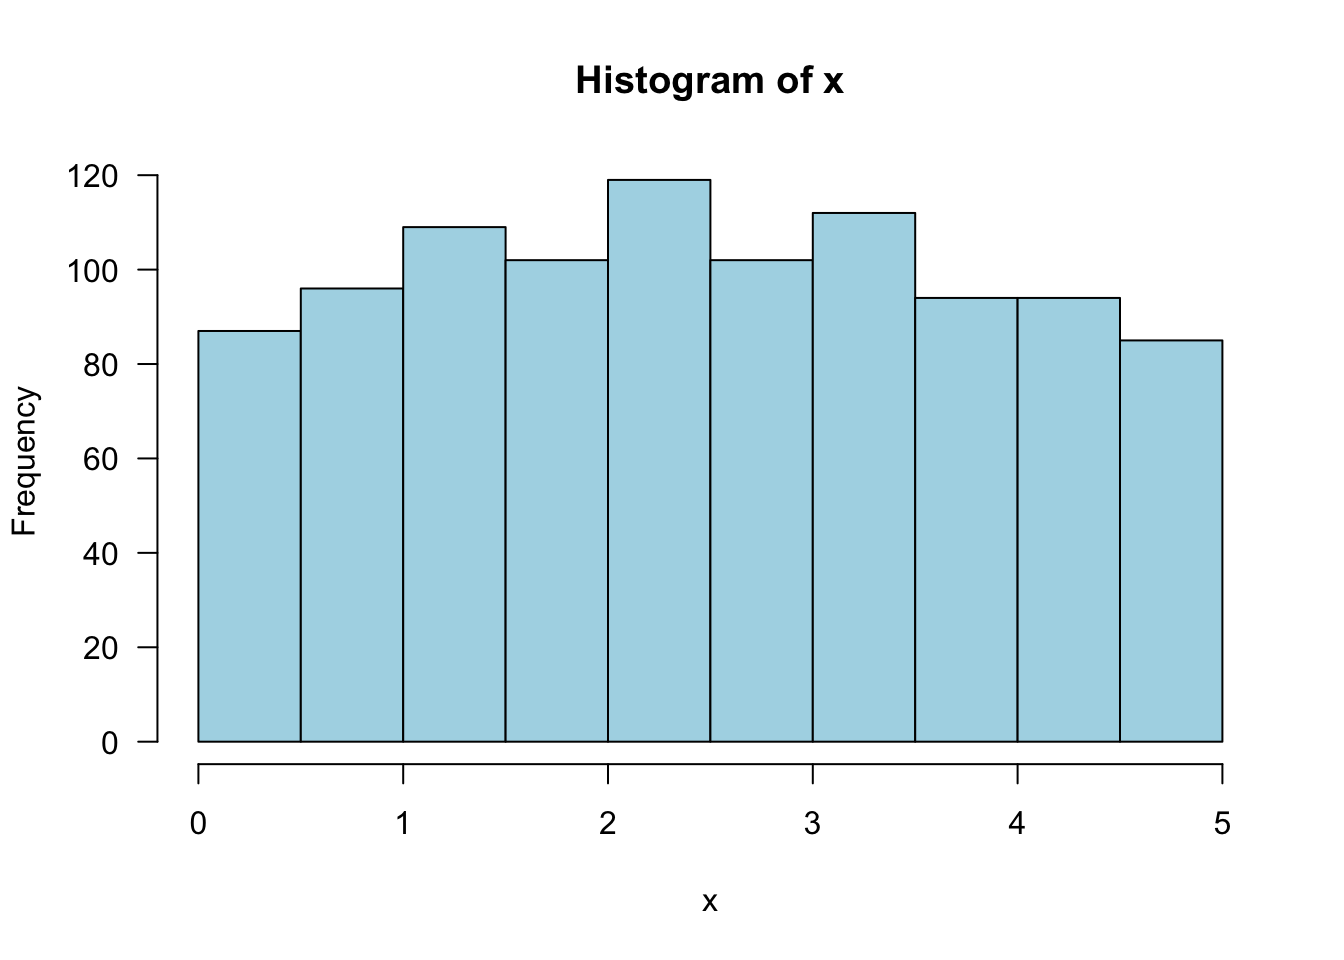
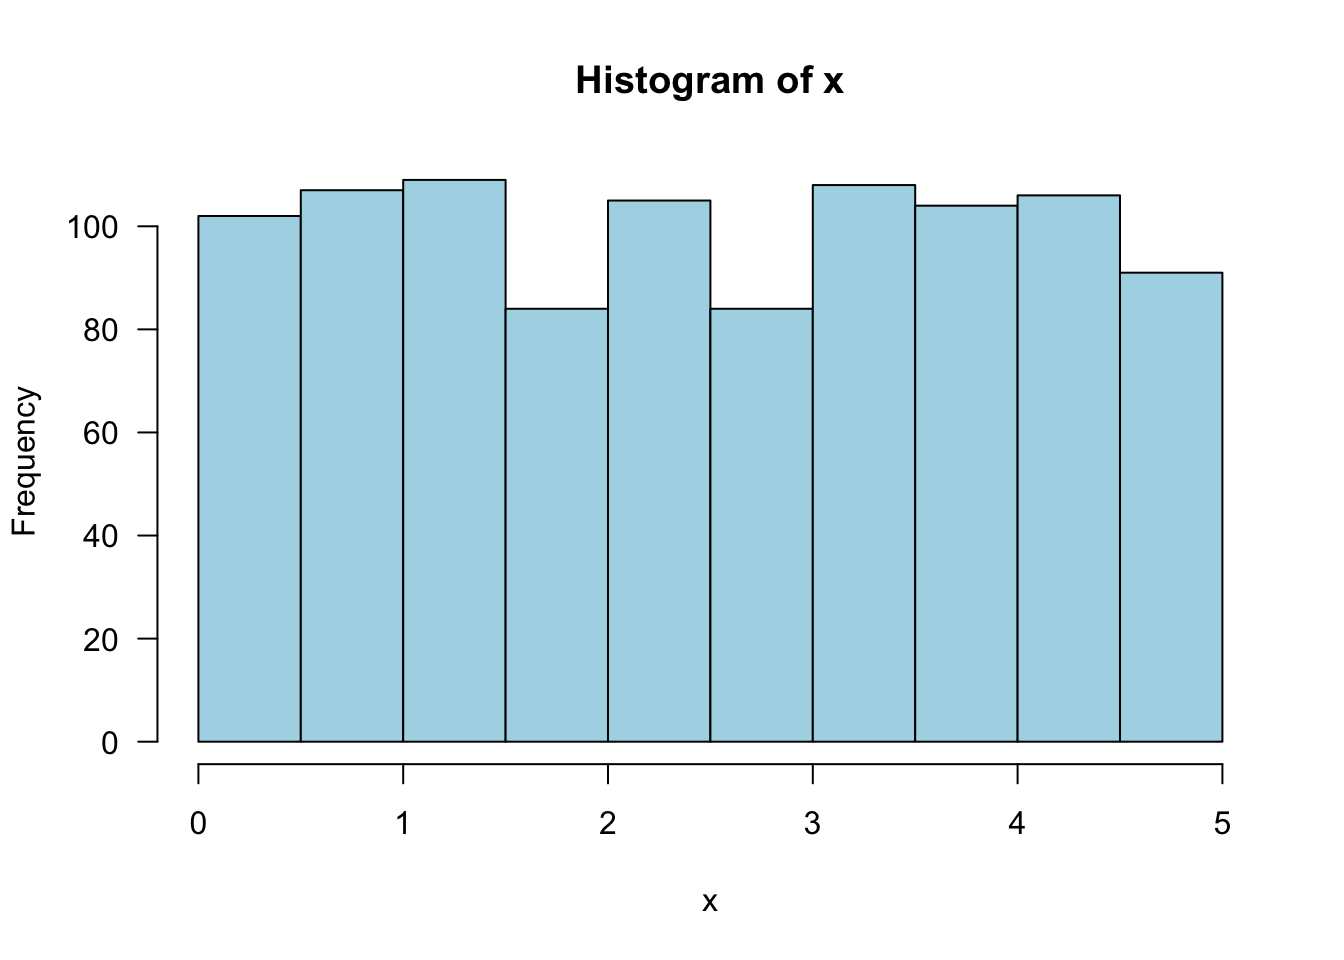
jtr13 published a site update

diff --git a/ch-4-continuous-random-variables-and-probability-distributions.html b/ch-4-continuous-random-variables-and-probability-distributions.html
@@ -24,7 +24,7 @@
 <meta name="author" content="Joyce Robbins" />
 
 
-<meta name="date" content="2021-03-12" />
+<meta name="date" content="2021-03-24" />
 
   <meta name="viewport" content="width=device-width, initial-scale=1" />
   <meta name="apple-mobile-web-app-capable" content="yes" />
@@ -51,6 +51,8 @@
 
 
 <script src="libs/accessible-code-block-0.0.1/empty-anchor.js"></script>
+<link href="libs/anchor-sections-1.0.1/anchor-sections.css" rel="stylesheet" />
+<script src="libs/anchor-sections-1.0.1/anchor-sections.js"></script>
 
 
 <style type="text/css">
@@ -274,11 +276,11 @@ code span.wa { color: #60a0b0; font-weight: bold; font-style: italic; } /* Warni
 <p>Randomly choose one number from the distribution:</p>
 <p><span class="math inline">\(f(x) = .2\)</span> for <span class="math inline">\(0 \leq x \leq 5\)</span>, 0 otherwise.</p>
 <div class="sourceCode" id="cb151"><pre class="sourceCode r"><code class="sourceCode r"><span id="cb151-1"><a href="ch-4-continuous-random-variables-and-probability-distributions.html#cb151-1"></a><span class="kw">runif</span>(<span class="dt">n =</span> <span class="dv">1</span>, <span class="dt">min =</span> <span class="dv">0</span>, <span class="dt">max =</span> <span class="dv">5</span>)</span></code></pre></div>
-<pre><code>## [1] 2.227676</code></pre>
+<pre><code>## [1] 0.5453556</code></pre>
 <p>Take the average of 1000 picks:</p>
 <div class="sourceCode" id="cb153"><pre class="sourceCode r"><code class="sourceCode r"><span id="cb153-1"><a href="ch-4-continuous-random-variables-and-probability-distributions.html#cb153-1"></a>x &lt;-<span class="st"> </span><span class="kw">runif</span>(<span class="dt">n =</span> <span class="dv">1000</span>, <span class="dt">min =</span> <span class="dv">0</span>, <span class="dt">max =</span> <span class="dv">5</span>)</span>
 <span id="cb153-2"><a href="ch-4-continuous-random-variables-and-probability-distributions.html#cb153-2"></a><span class="kw">mean</span>(x)</span></code></pre></div>
-<pre><code>## [1] 2.478448</code></pre>
+<pre><code>## [1] 2.474351</code></pre>
 <p>Draw a histogram of the 1000 picks:</p>
 <div class="sourceCode" id="cb155"><pre class="sourceCode r"><code class="sourceCode r"><span id="cb155-1"><a href="ch-4-continuous-random-variables-and-probability-distributions.html#cb155-1"></a><span class="kw">hist</span>(x, <span class="dt">las =</span> <span class="dv">1</span>, <span class="dt">col =</span> <span class="st">&quot;lightblue&quot;</span>)</span></code></pre></div>
 <p><img src="STAT1201-resource_files/figure-html/unnamed-chunk-41-1.png" width="672" /></p>

diff --git a/libs/anchor-sections-1.0.1/anchor-sections.js b/libs/anchor-sections-1.0.1/anchor-sections.js
@@ -1,0 +1,33 @@
+// Anchor sections v1.0 written by Atsushi Yasumoto on Oct 3rd, 2020.
+document.addEventListener('DOMContentLoaded', function() {
+  // Do nothing if AnchorJS is used
+  if (typeof window.anchors === 'object' && anchors.hasOwnProperty('hasAnchorJSLink')) {
+    return;
+  }
+
+  const h = document.querySelectorAll('h1, h2, h3, h4, h5, h6');
+
+  // Do nothing if sections are already anchored
+  if (Array.from(h).some(x => x.classList.contains('hasAnchor'))) {
+    return null;
+  }
+
+  // Use section id when pandoc runs with --section-divs
+  const section_id = function(x) {
+    return ((x.classList.contains('section') || (x.tagName === 'SECTION'))
+            ? x.id : '');
+  };
+
+  // Add anchors
+  h.forEach(function(x) {
+    const id = x.id || section_id(x.parentElement);
+    if (id === '' || x.matches(':empty')) {
+      return null;
+    }
+    let anchor = document.createElement('a');
+    anchor.href = '#' + id;
+    anchor.classList = ['anchor-section'];
+    x.classList.add('hasAnchor');
+    x.appendChild(anchor);
+  });
+});

diff --git a/index.html b/index.html
@@ -24,7 +24,7 @@
 <meta name="author" content="Joyce Robbins" />
 
 
-<meta name="date" content="2021-03-12" />
+<meta name="date" content="2021-03-24" />
 
   <meta name="viewport" content="width=device-width, initial-scale=1" />
   <meta name="apple-mobile-web-app-capable" content="yes" />
@@ -51,6 +51,8 @@
 
 
 <script src="libs/accessible-code-block-0.0.1/empty-anchor.js"></script>
+<link href="libs/anchor-sections-1.0.1/anchor-sections.css" rel="stylesheet" />
+<script src="libs/anchor-sections-1.0.1/anchor-sections.js"></script>
 
 
 <style type="text/css">
@@ -265,7 +267,7 @@ code span.wa { color: #60a0b0; font-weight: bold; font-style: italic; } /* Warni
 <div id="header">
 <h1 class="title">Stat 1201 Resources</h1>
 <p class="author"><em>Joyce Robbins</em></p>
-<p class="date"><em>2021-03-12</em></p>
+<p class="date"><em>2021-03-24</em></p>
 </div>
 <div id="introduction" class="section level1 unnumbered">
 <h1>Introduction</h1>

diff --git a/ch-1-descriptive-statistics.html b/ch-1-descriptive-statistics.html
@@ -24,7 +24,7 @@
 <meta name="author" content="Joyce Robbins" />
 
 
-<meta name="date" content="2021-03-12" />
+<meta name="date" content="2021-03-24" />
 
   <meta name="viewport" content="width=device-width, initial-scale=1" />
   <meta name="apple-mobile-web-app-capable" content="yes" />
@@ -51,6 +51,8 @@
 
 
 <script src="libs/accessible-code-block-0.0.1/empty-anchor.js"></script>
+<link href="libs/anchor-sections-1.0.1/anchor-sections.css" rel="stylesheet" />
+<script src="libs/anchor-sections-1.0.1/anchor-sections.js"></script>
 
 
 <style type="text/css">

diff --git a/ch-12-linear-regression.html b/ch-12-linear-regression.html
@@ -24,7 +24,7 @@
 <meta name="author" content="Joyce Robbins" />
 
 
-<meta name="date" content="2021-03-12" />
+<meta name="date" content="2021-03-24" />
 
   <meta name="viewport" content="width=device-width, initial-scale=1" />
   <meta name="apple-mobile-web-app-capable" content="yes" />
@@ -51,6 +51,8 @@
 
 
 <script src="libs/accessible-code-block-0.0.1/empty-anchor.js"></script>
+<link href="libs/anchor-sections-1.0.1/anchor-sections.css" rel="stylesheet" />
+<script src="libs/anchor-sections-1.0.1/anchor-sections.js"></script>
 
 
 <style type="text/css">

diff --git a/ch-2-conditional-probability.html b/ch-2-conditional-probability.html
@@ -24,7 +24,7 @@
 <meta name="author" content="Joyce Robbins" />
 
 
-<meta name="date" content="2021-03-12" />
+<meta name="date" content="2021-03-24" />
 
   <meta name="viewport" content="width=device-width, initial-scale=1" />
   <meta name="apple-mobile-web-app-capable" content="yes" />
@@ -51,6 +51,8 @@
 
 
 <script src="libs/accessible-code-block-0.0.1/empty-anchor.js"></script>
+<link href="libs/anchor-sections-1.0.1/anchor-sections.css" rel="stylesheet" />
+<script src="libs/anchor-sections-1.0.1/anchor-sections.js"></script>
 
 
 <style type="text/css">

diff --git a/ch-2-probability.html b/ch-2-probability.html
@@ -24,7 +24,7 @@
 <meta name="author" content="Joyce Robbins" />
 
 
-<meta name="date" content="2021-03-12" />
+<meta name="date" content="2021-03-24" />
 
   <meta name="viewport" content="width=device-width, initial-scale=1" />
   <meta name="apple-mobile-web-app-capable" content="yes" />
@@ -51,6 +51,8 @@
 
 
 <script src="libs/accessible-code-block-0.0.1/empty-anchor.js"></script>
+<link href="libs/anchor-sections-1.0.1/anchor-sections.css" rel="stylesheet" />
+<script src="libs/anchor-sections-1.0.1/anchor-sections.js"></script>
 
 
 <style type="text/css">

diff --git a/ch-3-discrete-distributions.html b/ch-3-discrete-distributions.html
@@ -24,7 +24,7 @@
 <meta name="author" content="Joyce Robbins" />
 
 
-<meta name="date" content="2021-03-12" />
+<meta name="date" content="2021-03-24" />
 
   <meta name="viewport" content="width=device-width, initial-scale=1" />
   <meta name="apple-mobile-web-app-capable" content="yes" />
@@ -51,6 +51,8 @@
 
 
 <script src="libs/accessible-code-block-0.0.1/empty-anchor.js"></script>
+<link href="libs/anchor-sections-1.0.1/anchor-sections.css" rel="stylesheet" />
+<script src="libs/anchor-sections-1.0.1/anchor-sections.js"></script>
 
 
 <style type="text/css">

diff --git a/ch-5-joint-probability.html b/ch-5-joint-probability.html
@@ -24,7 +24,7 @@
 <meta name="author" content="Joyce Robbins" />
 
 
-<meta name="date" content="2021-03-12" />
+<meta name="date" content="2021-03-24" />
 
   <meta name="viewport" content="width=device-width, initial-scale=1" />
   <meta name="apple-mobile-web-app-capable" content="yes" />
@@ -51,6 +51,8 @@
 
 
 <script src="libs/accessible-code-block-0.0.1/empty-anchor.js"></script>
+<link href="libs/anchor-sections-1.0.1/anchor-sections.css" rel="stylesheet" />
+<script src="libs/anchor-sections-1.0.1/anchor-sections.js"></script>
 
 
 <style type="text/css">

diff --git a/ch-5-random-samples.html b/ch-5-random-samples.html
@@ -24,7 +24,7 @@
 <meta name="author" content="Joyce Robbins" />
 
 
-<meta name="date" content="2021-03-12" />
+<meta name="date" content="2021-03-24" />
 
   <meta name="viewport" content="width=device-width, initial-scale=1" />
   <meta name="apple-mobile-web-app-capable" content="yes" />
@@ -51,6 +51,8 @@
 
 
 <script src="libs/accessible-code-block-0.0.1/empty-anchor.js"></script>
+<link href="libs/anchor-sections-1.0.1/anchor-sections.css" rel="stylesheet" />
+<script src="libs/anchor-sections-1.0.1/anchor-sections.js"></script>
 
 
 <style type="text/css">

diff --git a/ch-6-point-estimation.html b/ch-6-point-estimation.html
@@ -24,7 +24,7 @@
 <meta name="author" content="Joyce Robbins" />
 
 
-<meta name="date" content="2021-03-12" />
+<meta name="date" content="2021-03-24" />
 
   <meta name="viewport" content="width=device-width, initial-scale=1" />
   <meta name="apple-mobile-web-app-capable" content="yes" />
@@ -51,6 +51,8 @@
 
 
 <script src="libs/accessible-code-block-0.0.1/empty-anchor.js"></script>
+<link href="libs/anchor-sections-1.0.1/anchor-sections.css" rel="stylesheet" />
+<script src="libs/anchor-sections-1.0.1/anchor-sections.js"></script>
 
 
 <style type="text/css">

diff --git a/ch-7-statistical-intervals-based-on-a-single-sample.html b/ch-7-statistical-intervals-based-on-a-single-sample.html
@@ -24,7 +24,7 @@
 <meta name="author" content="Joyce Robbins" />
 
 
-<meta name="date" content="2021-03-12" />
+<meta name="date" content="2021-03-24" />
 
   <meta name="viewport" content="width=device-width, initial-scale=1" />
   <meta name="apple-mobile-web-app-capable" content="yes" />
@@ -51,6 +51,8 @@
 
 
 <script src="libs/accessible-code-block-0.0.1/empty-anchor.js"></script>
+<link href="libs/anchor-sections-1.0.1/anchor-sections.css" rel="stylesheet" />
+<script src="libs/anchor-sections-1.0.1/anchor-sections.js"></script>
 
 
 <style type="text/css">
